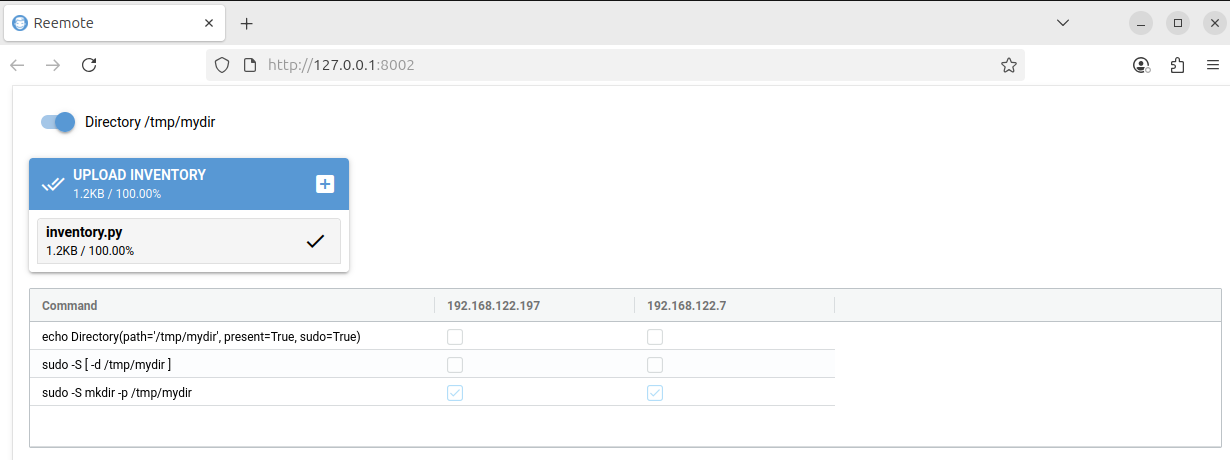
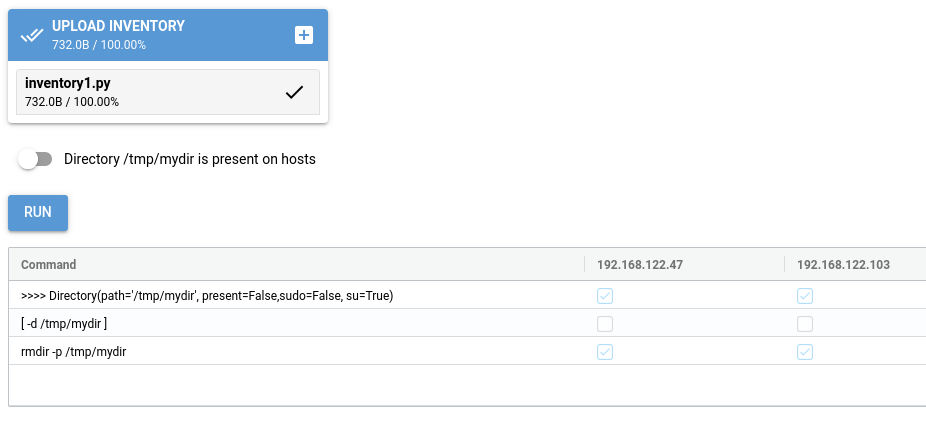
Improve GUI example

diff --git a/examples/gui/main.py b/examples/gui/main.py
@@ -1,87 +1,24 @@
-from nicegui import ui, native, app, events
-from nicegui.events import ValueChangeEventArguments
+from nicegui import ui, native, app
+from reemote.gui import Gui
 from reemote.run import run
-from reemote.operations.filesystem.directory import Directory
-from reemote.validate_inventory_structure import validate_inventory_structure
-from reemote.verify_inventory_connect import verify_inventory_connect
-from reemote.summarize_data_for_aggrid import summarize_data_for_aggrid
-from reemote.construct_host_ops import construct_host_ops
-from reemote.operations.filesystem.directory import Directory
 from reemote.grid import grid
-
 from reemote.operations.filesystem.directory import Directory
 
-class Make_directory:
-    def execute(self):
-        yield Directory(path="/tmp/mydir", present=True, su=True)
 
-class Gui:
-    def __init__(self):
-        app.storage.user["columns"] = [{'headerName': 'Command', 'field': 'command'}]
-        app.storage.user["rows"] = []
-
-    async def dir(self, present):
-        operations, responses = await run(app.storage.user["inventory"],
-                                          Make_directory())
-        if present:
-            ui.notify("Directory present")
-        else:
-            ui.notify("Directory absent")
-
-        app.storage.user["columns"],app.storage.user["rows"] = grid(operations, responses)
-        self.grid.refresh()
-
-    async def handle_upload(self, e: events.UploadEventArguments):
-        text = e.content.read().decode('utf-8')
-        exec(text, globals())
-        if not validate_inventory_structure(inventory()):
-            ui.notify("Inventory structure is invalid")
-            return
-        if not await verify_inventory_connect(inventory()):
-            ui.notify("Inventory connections are invalid")
-            return
-        ui.notify("Inventory structure and all hosts connect")
-        app.storage.user["inventory"] = inventory()
-
-        # Start with the fixed column definition for "Command"
-        column_defs = [{'headerName': 'Command', 'field': 'command'}]
-
-        # Dynamically generate column definitions for each host
-        for index, (host_info, _) in enumerate(inventory()):
-            host_ip = host_info['host']
-            column_defs.append({'headerName': host_ip, 'field': f'host{index}'})
-        app.storage.user["columns"] = column_defs
-        self.grid.refresh()
-
-    @ui.refreshable
-    def grid(self):
-        return ui.aggrid({
-            'columnDefs': app.storage.user["columns"],
-            'rowData': app.storage.user["rows"],
-        }).classes('max-h-40  overflow-y-auto')
-
-    def upload(self):
-        return ui.upload(label="UPLOAD INVENTORY",
-             on_upload=self.handle_upload,  # Handle the file upload
-        ).props('accept=.py').classes('max-w-full')
-
-    async def show(self, event: ValueChangeEventArguments):
-        name = type(event.sender).__name__
-        await self.dir(event.value)
-        self.grid.refresh()
-
+async def Control_directory(gui):
+    operations, responses = await run(app.storage.user["inventory"],
+                                      Directory(path="/tmp/mydir", present=app.storage.user["present"], su=True))
+    app.storage.user["columnDefs"],app.storage.user["rowData"] = grid(operations, responses)
+    gui.execution_report.refresh()
 
 @ui.page('/')
 def page():
     gui = Gui()
-
-    ui.switch('Directory /tmp/mydir', value=False,
-              on_change=gui.show,
-              )
-
-    gui.upload()
-    gui.grid()
+    gui.upload_inventory()
+    ui.switch('Directory /tmp/mydir is present on hosts', value=False).bind_value(app.storage.user, 'present')
+    ui.button('Run', on_click=lambda: Control_directory(gui))
+    gui.execution_report()
 
 
-ui.run(title="Reemote", reload=False, port=native.find_open_port(),
+ui.run(title="Manage directory", reload=False, port=native.find_open_port(),
        storage_secret='private key to secure the browser session cookie')

diff --git a/reemote/gui.py b/reemote/gui.py
@@ -1,0 +1,44 @@
+from nicegui import app, events, ui
+
+from reemote.validate_inventory_structure import validate_inventory_structure
+from reemote.verify_inventory_connect import verify_inventory_connect
+
+
+class Gui:
+    def __init__(self):
+        app.storage.user["columnDefs"] = [{'headerName': 'Command', 'field': 'command'}]
+        app.storage.user["rowData"] = []
+
+    async def handle_upload(self, e: events.UploadEventArguments):
+        text = e.content.read().decode('utf-8')
+        exec(text, globals())
+        if not validate_inventory_structure(inventory()):
+            ui.notify("Inventory structure is invalid")
+            return
+        if not await verify_inventory_connect(inventory()):
+            ui.notify("Inventory connections are invalid")
+            return
+        ui.notify("Inventory structure and all hosts connect")
+        app.storage.user["inventory"] = inventory()
+
+        # Start with the fixed column definition for "Command"
+        columnDefs = [{'headerName': 'Command', 'field': 'command'}]
+
+        # Dynamically generate column definitions for each host
+        for index, (host_info, _) in enumerate(inventory()):
+            host_ip = host_info['host']
+            columnDefs.append({'headerName': host_ip, 'field': f'host{index}'})
+        app.storage.user["columnDefs"] = columnDefs
+        self.execution_report.refresh()
+
+    @ui.refreshable
+    def execution_report(self):
+        return ui.aggrid({
+            'columnDefs': app.storage.user["columnDefs"],
+            'rowData': app.storage.user["rowData"],
+        }).classes('max-h-40  overflow-y-auto')
+
+    def upload_inventory(self):
+        return ui.upload(label="UPLOAD INVENTORY",
+             on_upload=self.handle_upload,  # Handle the file upload
+        ).props('accept=.py').classes('max-w-full')

diff --git a/setup.py b/setup.py
@@ -23,12 +23,12 @@ setup(
         "cryptography",
         "bcrypt",
         "asyncssh",
-        "tabulate"
+        "tabulate",
+        "nicegui",
     ],  # List of dependencies with proper commas
     extras_require={
         "dev": [
             "setuptools",
-            "asyncssh",
         ],
         "doc": [
             "sphinx",
